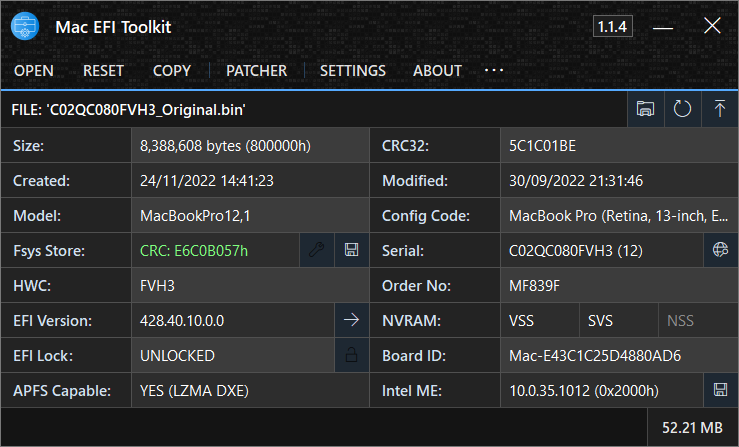
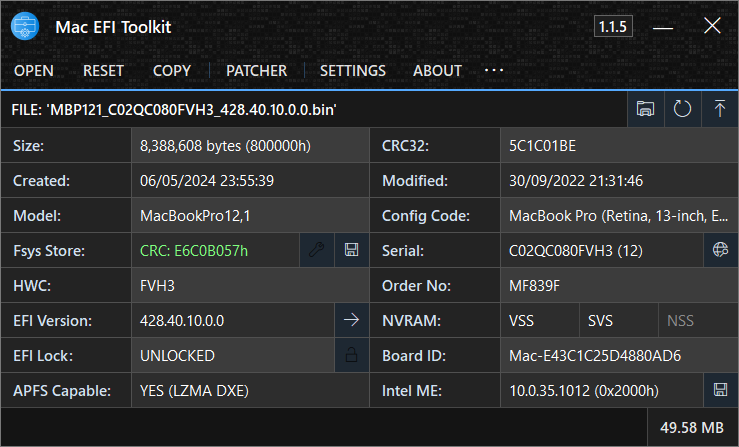
Commit 1.1.5 dev

diff --git a/mefit/UI/METLabel.cs b/mefit/UI/METLabel.cs
@@ -2,7 +2,7 @@
 // https://github.com/MuertoGB/MacEfiToolkit
 
 // UI Components
-// METLabel.cs - Because fuck Auto Ellipsis.
+// METLabel.cs
 // Released under the GNU GLP v3.0
 
 using System;
@@ -11,21 +11,31 @@ using System.Windows.Forms;
 
 public class METLabel : Label
 {
+
+    #region Private Members
     private ToolTip toolTip;
+    private TextFormatFlags flags =
+            TextFormatFlags.Left |
+            TextFormatFlags.VerticalCenter |
+            TextFormatFlags.EndEllipsis;
+    #endregion
 
-    public METLabel()
+    #region Constructor
+    public METLabel() =>
+        toolTip = new ToolTip { AutoPopDelay = 15000 };
+    #endregion
+
+    #region Paint Methods
+    protected override void OnPaint(PaintEventArgs e) =>
+        DrawText(e.Graphics, flags, ForeColor);
+
+    protected virtual void OnPaintForeground(PaintEventArgs e) =>
+        DrawText(e.Graphics, flags, ForeColor);
+    #endregion
+
+    #region Custom Methods
+    private void DrawText(Graphics graphics, TextFormatFlags flags, Color textColor)
     {
-        toolTip =
-            new ToolTip { AutoPopDelay = 10000 };
-    }
-
-    protected override void OnPaint(PaintEventArgs e)
-    {
-        TextFormatFlags flags =
-            TextFormatFlags.Left
-            | TextFormatFlags.VerticalCenter
-            | TextFormatFlags.EndEllipsis;
-
         Rectangle textRect =
             new Rectangle(
                 ClientRectangle.Left + Padding.Left,
@@ -33,12 +43,17 @@ public class METLabel : Label
                 ClientRectangle.Width - Padding.Horizontal,
                 ClientRectangle.Height - Padding.Vertical);
 
+        // Override text color when the control is !enabled.
+        textColor = !Enabled
+            ? Color.FromArgb(14, 14, 14)
+            : ForeColor;
+
         TextRenderer.DrawText(
-            e.Graphics,
+            graphics,
             Text,
             Font,
             textRect,
-            ForeColor,
+            textColor,
             flags);
     }
 
@@ -46,18 +61,13 @@ public class METLabel : Label
     {
         base.OnMouseEnter(e);
 
-        if (IsTextEllipsized()
-            && Text != toolTip.GetToolTip(this))
+        if (IsTextEllipsized() && Text != toolTip.GetToolTip(this))
         {
-            toolTip.SetToolTip(
-                this,
-                Text);
+            toolTip.SetToolTip(this, Text);
         }
         else if (!IsTextEllipsized())
         {
-            toolTip.SetToolTip(
-                this,
-                string.Empty);
+            toolTip.SetToolTip(this, string.Empty);
         }
     }
 
@@ -65,13 +75,24 @@ public class METLabel : Label
     {
         using (Graphics g = CreateGraphics())
         {
-            Size textSize =
-                TextRenderer.MeasureText(
-                    Text,
-                    Font);
-
+            Size textSize = TextRenderer.MeasureText(Text, Font);
             return textSize.Width > ClientSize.Width;
         }
     }
+    #endregion
+
+    #region Overriden Methods
+    protected override void OnEnabledChanged(EventArgs e)
+    {
+        base.OnEnabledChanged(e);
+        Invalidate();
+    }
+
+    protected override void OnParentEnabledChanged(EventArgs e)
+    {
+        base.OnParentEnabledChanged(e);
+        Invalidate();
+    }
+    #endregion
 
 }

diff --git a/mefit/Common/IntelME.cs b/mefit/Common/IntelME.cs
@@ -52,6 +52,8 @@ namespace Mac_EFI_Toolkit.Common
 
     class IntelME
     {
+        private static string _default = "0.0.0.0";
+
         internal static string GetVersionData(byte[] sourceBytes, VersionType versionType)
         {
             int headerPos = -1;
@@ -83,7 +85,7 @@ namespace Mac_EFI_Toolkit.Common
             {
                 byte[] headerBytes = BinaryUtils.GetBytesBaseLength(
                     sourceBytes,
-                    headerPos,
+                    headerPos + 2,
                     dataLength);
 
                 if (headerBytes != null)
@@ -115,12 +117,11 @@ namespace Mac_EFI_Toolkit.Common
                 }
             }
 
-            if (version == "0.0.0.0")
+            if (string.IsNullOrEmpty(version) || version == _default)
                 return null;
 
             return version;
         }
-
 
         internal static readonly byte[] FPT_SIGNATURE =
         {
@@ -129,8 +130,7 @@ namespace Mac_EFI_Toolkit.Common
 
         internal static readonly byte[] MN2_SIGNATURE =
         {
-            0x24, 0x4D, 0x4E, 0x32
+            0x00, 0x00, 0x24, 0x4D, 0x4E, 0x32
         };
-
     }
 }

diff --git a/mefit/Properties/AssemblyInfo.cs b/mefit/Properties/AssemblyInfo.cs
@@ -33,6 +33,6 @@ using System.Runtime.InteropServices;
 // You can specify all the values or you can default the Build and Revision Numbers
 // by using the '*' as shown below:
 // [assembly: AssemblyVersion("1.0.*")]
-[assembly: AssemblyVersion("1.1.4")]
-[assembly: AssemblyFileVersion("1.1.4")]
+[assembly: AssemblyVersion("1.1.5")]
+[assembly: AssemblyFileVersion("1.1.5")]
 [assembly: NeutralResourcesLanguage("en")]

diff --git a/mefit/Program.cs b/mefit/Program.cs
@@ -35,7 +35,7 @@ namespace Mac_EFI_Toolkit
     internal struct METVersion
     {
         internal static readonly string SDK = "23.01";
-        internal static readonly string Build = "231010.2332";
+        internal static readonly string Build = "241018.1450";
         internal static readonly string Channel = "Stable";
     }
 

diff --git a/mefit/Common/AppleEFI.cs b/mefit/Common/AppleEFI.cs
@@ -467,6 +467,7 @@ namespace Mac_EFI_Toolkit.Common
 
             return new NvramStore
             {
+                StoreType = storeType,
                 PrimaryStoreSize = primaryStoreSize,
                 PrimaryStoreBase = primaryStoreBase,
                 PrimaryStoreBytes = primaryStoreData,

diff --git a/README.md b/README.md
@@ -1,7 +1,7 @@
 <h1 align="center">
 <img width="200" src="files/images/img128px.png" alt="SMCFT Logo">
 <br>
-Mac EFI Toolkit V1.1.4
+Mac EFI Toolkit V1.1.5
 </h1>
 
 <h4 align="center">A tool for analysis of Mac BIOS/UEFI, with limited editing capabilities.</h4>
@@ -83,8 +83,8 @@ I continue to perform extensive testing on hundreds of firmwares to ensure compa
 
 | Version| Release Date| Latest | Channel |
 |--------|-------------|--------|---------|
-|[1.1.4](https://github.com/MuertoGB/MacEfiToolkit/releases/latest)| 11th October, 2023 | Yes | Stable |
-|[1.1.3](https://github.com/MuertoGB/MacEfiToolkit/releases/113)| 28th September, 2023 | No | Stable |
+|[1.1.5](https://github.com/MuertoGB/MacEfiToolkit/releases/latest)| 10th October, 2024 | Yes | Stable |
+|[1.1.3](https://github.com/MuertoGB/MacEfiToolkit/releases/113)| 11th October, 2023 | No | Stable |
 
 > 📋 View the full changelog [here](CHANGELOG.md)
 

diff --git a/CHANGELOG.md b/CHANGELOG.md
@@ -8,8 +8,16 @@
   <a href="#version-111">V1.1.1</a> •
   <a href="#version-112">V1.1.2</a> •
   <a href="#version-113">V1.1.3</a> •
-  <a href="#version-114">V1.1.4</a>
+  <a href="#version-114">V1.1.4</a> •
+  <a href="#version-115">V1.1.5</a>
 </p>
+
+## Version 1.1.5
+
+#### Bugs:
+- Fixed a bug introduced in the previous version where the NVRAM store type was not set when parsing store data, this could lead to a 'no post' scenario.
+- Mitigated rare occurrences of malformed Intel ME version numbers.
+- Fixed a UI bug related to the METLabel, where the ForeColor property could be overridden even when the control was disabled.
 
 ## Version 1.1.4
 
